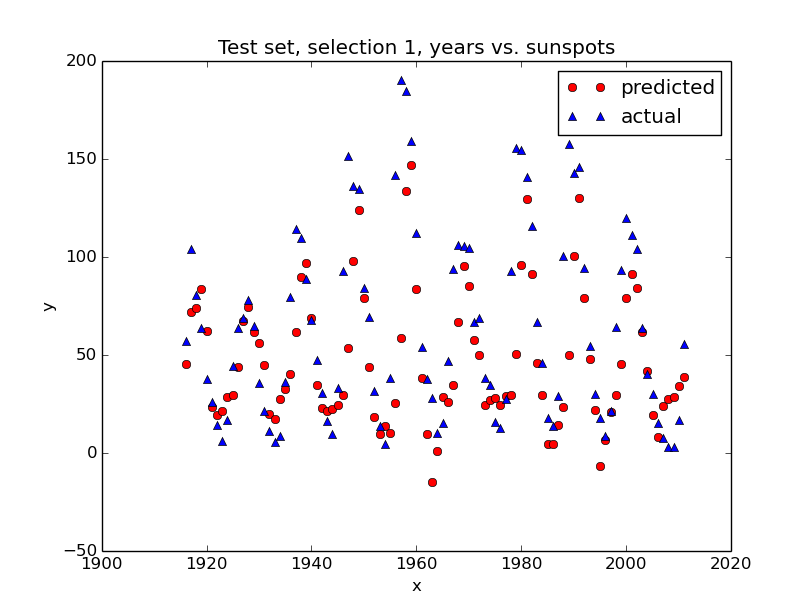
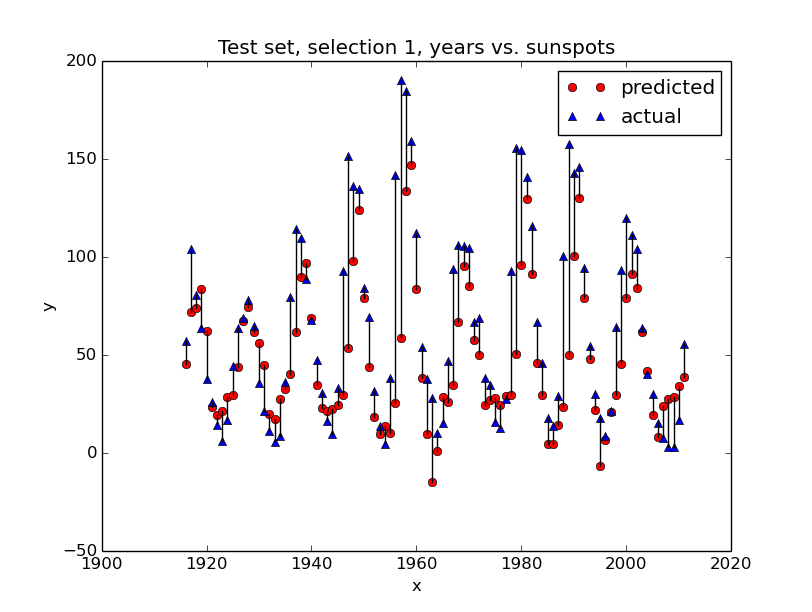
A few corrections.

diff --git a/report/assignment2/statml.assignment2.tex b/report/assignment2/statml.assignment2.tex
@@ -76,7 +76,7 @@ where we have used the fact that the pairs of events are disjoint (to get from l
 \section{Regression: Sunspot Prediction}
 
 \subsection{Maximum likelihood solution}
-Figure \ref{fig:selection2} shows the predicted number of sunspots for selection 2 of the training set and test set, respectively, along with the actual number of sunspots. Here, the values on the $x$-axis are the 1-dimensional data points in column 5 of the data set.
+Figure \ref{fig:selection2} shows the predicted and actual number of sunspots for selection 2 of the training set and test set, respectively. Here, the values on the $x$-axis are the 1-dimensional data points in column 5 of the data set.
 
 \begin{figure}[H]
   \begin{adjustwidth}{-7em}{-7em}
@@ -92,25 +92,25 @@ When applying the models to the test set, we get the root mean square (RMS) erro
 
 \begin{figure}[H]
 	\begin{lstlisting}
-	RMS:
-        Selection 1: 41.007587122
-        Selection 2: 18.7442143723
-        Selection 3: 20.4087983523
+        RMS:
+        Selection 1: 347.485192924
+        Selection 2: 282.570860243
+        Selection 3: 183.907763145
 	\end{lstlisting}
-	\caption{Root mean square (RMS) errors with the ML parameter estimates.}
+	\caption{Root mean square (RMS) errors when using the ML parameter estimates.}
 	\label{fig:rms_ml}
 \end{figure}
 
-From the calculated RMS errors, selection 2 seems to give the best prediction. Figure \ref{fig:years_vs_sunspots} shows the predicted and actual values plotted agains year numbers for the years 1916-2011 of the test set. Since the points lie so close on the $x$-axis, it is hard to see exactly which predicted value goes with which actual value, making it hard to say anything from these plots.
+From the calculated RMS errors, selection 3 seems to give the best prediction, followed by selection 2 and then selection 1. Figure \ref{fig:years_vs_sunspots} shows the predicted and actual values plotted agains year numbers for the years 1916-2011 of the test set. We have connected each pair of predicted and actual value by a line, so the lines ``illustrate'' what the RMS error computes. Therefore, we expect that average length of the lines to be shortest for selection 2 and longest for selection 1. Although it is hard to tell the average line length from the plots, it looks like selection 3 has quite short lines.
 
 \begin{figure}[H]
   \begin{adjustwidth}{-7em}{-7em}
     \centering
-    \includegraphics[width=.3\linewidth]{figures/years_vs_sunspots_selection1.png}
-    \includegraphics[width=.3\linewidth]{figures/years_vs_sunspots_selection2.png}
-    \includegraphics[width=.3\linewidth]{figures/years_vs_sunspots_selection3.png}
+    \includegraphics[width=.32\linewidth]{figures/years_vs_sunspots_selection1.png}
+    \includegraphics[width=.32\linewidth]{figures/years_vs_sunspots_selection2.png}
+    \includegraphics[width=.32\linewidth]{figures/years_vs_sunspots_selection3.png}
   \end{adjustwidth}
-  \caption{Predicted and actual values, plotted against year numbers.}
+  \caption{Predicted and actual values plotted against year numbers, with lines connecting each predicted and actual value.}
   \label{fig:years_vs_sunspots}
 \end{figure}
 

diff --git a/src/assignment2/ii_2_1.py b/src/assignment2/ii_2_1.py
@@ -63,21 +63,37 @@ def plotPredictedAndActual(title, xs, ys, ts):
 
 # Compute the RMS error.
 def computeRMS(xs, w, ts):
-    return math.sqrt(sum([ts[i] - y(xs[i],w) for i in range(len(xs))]))
+    return math.sqrt(sum([(ts[i] - y(xs[i],w))**2 for i in range(len(xs))]))
 
+# Plot years vs. sunspots.
 def plotYearsVsSunspots(title, dataset, w, ts):
     startYear = 1916
+    
     # The year numbers in the dataset, assuming consecutive years
     # starting from startYear.
     xs = [startYear+i for (i,_) in enumerate(dataset)]
     ys = [y(x,w) for x in dataset]
+    
     # Plot the predicted and actual values.
-    plotPredictedAndActual(title, xs, ys, ts)
+    mpl.plot(xs, ys, 'ro', label="predicted")
+    mpl.plot(xs, ts, 'b^', label="actual")
+    
+    # Connect each predicted and actual value by a line.
+    for x1,y1,t1 in zip(xs, ys, ts):
+        mpl.plot([x1,x1],[y1,t1],'k-')
+    
+    mpl.title(title)
+    mpl.ylabel('y')
+    mpl.xlabel('x')
+    mpl.legend()
+    mpl.show()
 
 def run():
     # Read datasets.
-    train = readFile(os.path.dirname(__file__) + '/../../data/sunspotsTrainStatML.dt')
-    test = readFile(os.path.dirname(__file__) + '/../../data/sunspotsTestStatML.dt')
+    train = readFile(os.path.dirname(__file__) +
+                     '/../../data/sunspotsTrainStatML.dt')
+    test = readFile(os.path.dirname(__file__) +
+                    '/../../data/sunspotsTestStatML.dt')
     
     # Retrieve appropriate columns from the training set.
     train1 = sel1(train)
@@ -101,7 +117,8 @@ def run():
     ys_train_plot = [y(x,w2) for x in train2]
     
     # Plot the predicted and actual values for the training set.
-    plotPredictedAndActual('Training set, selection 2', xs_train_plot, ys_train_plot, ts_train)
+    plotPredictedAndActual('Training set, selection 2',
+                           xs_train_plot, ys_train_plot, ts_train)
     
     # Retrieve appropriate columns from the test set.
     test1 = sel1(test)
@@ -116,7 +133,8 @@ def run():
     
     # Plot the predicted and actual values for the test set in a new figure.
     mpl.figure()
-    plotPredictedAndActual('Test set, selection 2', xs_test_plot, ys_test_plot, ts_test)
+    plotPredictedAndActual('Test set, selection 2',
+                           xs_test_plot, ys_test_plot, ts_test)
     
     # Print the RMS errors.
     print 'RMS:'
@@ -128,9 +146,12 @@ def run():
     print 'Selection 3: ' + str(RMS3)
     
     # Plot years vs. sunspots.
-    plotYearsVsSunspots('Test set, selection 1, years vs. sunspots', test1, w1, ts_test)
-    plotYearsVsSunspots('Test set, selection 2, years vs. sunspots', test2, w2, ts_test)
-    plotYearsVsSunspots('Test set, selection 3, years vs. sunspots', test3, w3, ts_test)
+    plotYearsVsSunspots('Test set, selection 1, years vs. sunspots',
+                        test1, w1, ts_test)
+    plotYearsVsSunspots('Test set, selection 2, years vs. sunspots',
+                        test2, w2, ts_test)
+    plotYearsVsSunspots('Test set, selection 3, years vs. sunspots',
+                        test3, w3, ts_test)
 
 if __name__ == '__main__':
     run()

diff --git a/src/assignment2/ii_1_1.py b/src/assignment2/ii_1_1.py
@@ -35,7 +35,7 @@ def getSigma(dataset, splitset):
 		for i in splitset[k]:
 			res_k += np.outer((i - mu_k), (i-mu_k).T) 
 		res += res_k
-	return (1 / (len(dataset) - m)) * res
+	return (1 / (l - m)) * res
 
 # Returns the prior_k
 def getPrior_k(splitset, dataset):
@@ -43,7 +43,7 @@ def getPrior_k(splitset, dataset):
 
 # Groups a dataset by its species
 def split(dataset, m):
-	res = [[] for x in xrange(m)]
+	res = [[] for _ in xrange(m)]
 	for elem in dataset:
 		res[int(elem[-1])].append(elem[:-1])
 	return np.array(res)

diff --git a/src/assignment2/ii_1_2.py b/src/assignment2/ii_1_2.py
@@ -8,11 +8,11 @@ import numpy as np
 # Compute the maximum likelihood sample mean of
 # a given data set.
 def muML(dataset):
-	N = len(dataset)
-	n = 0
-	for x in dataset:
-		n += x
-	return (1/N) * n
+    N = len(dataset)
+    n = 0
+    for x in dataset:
+        n += x
+    return (1/N) * n
 
 # Compute the maximum likelihood sample covariance of
 # a given data set.
